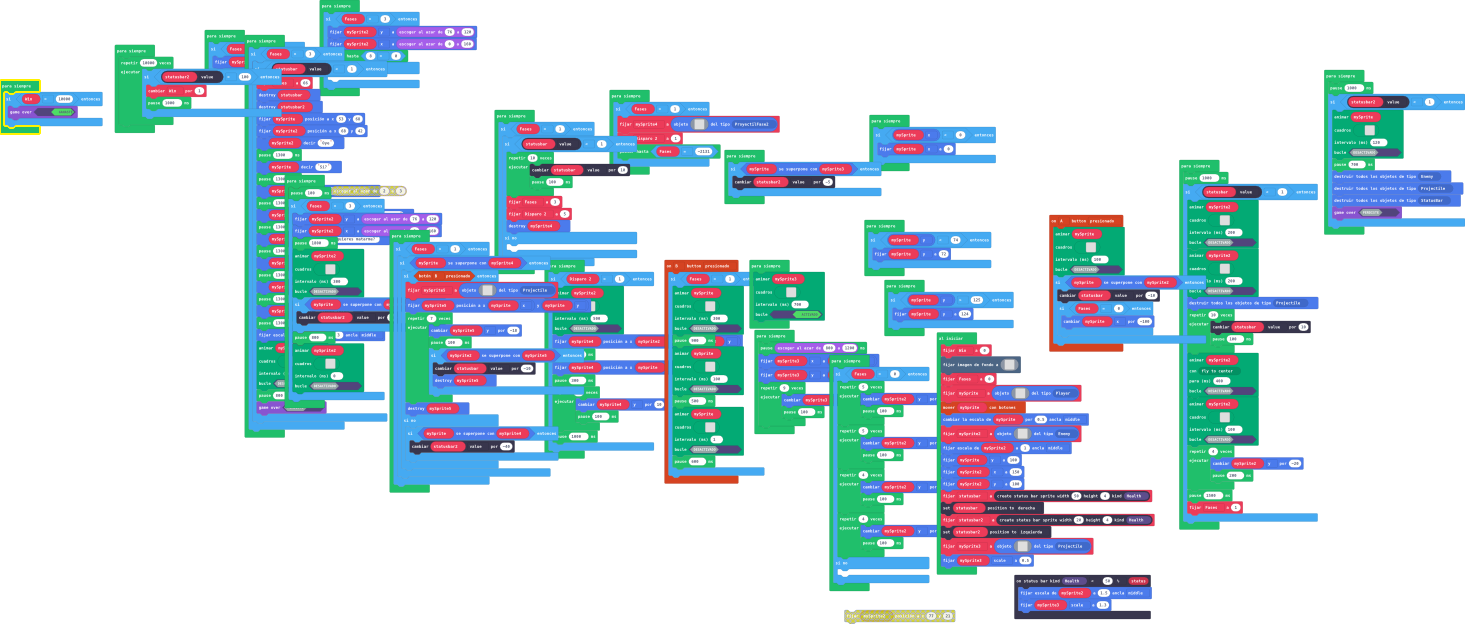
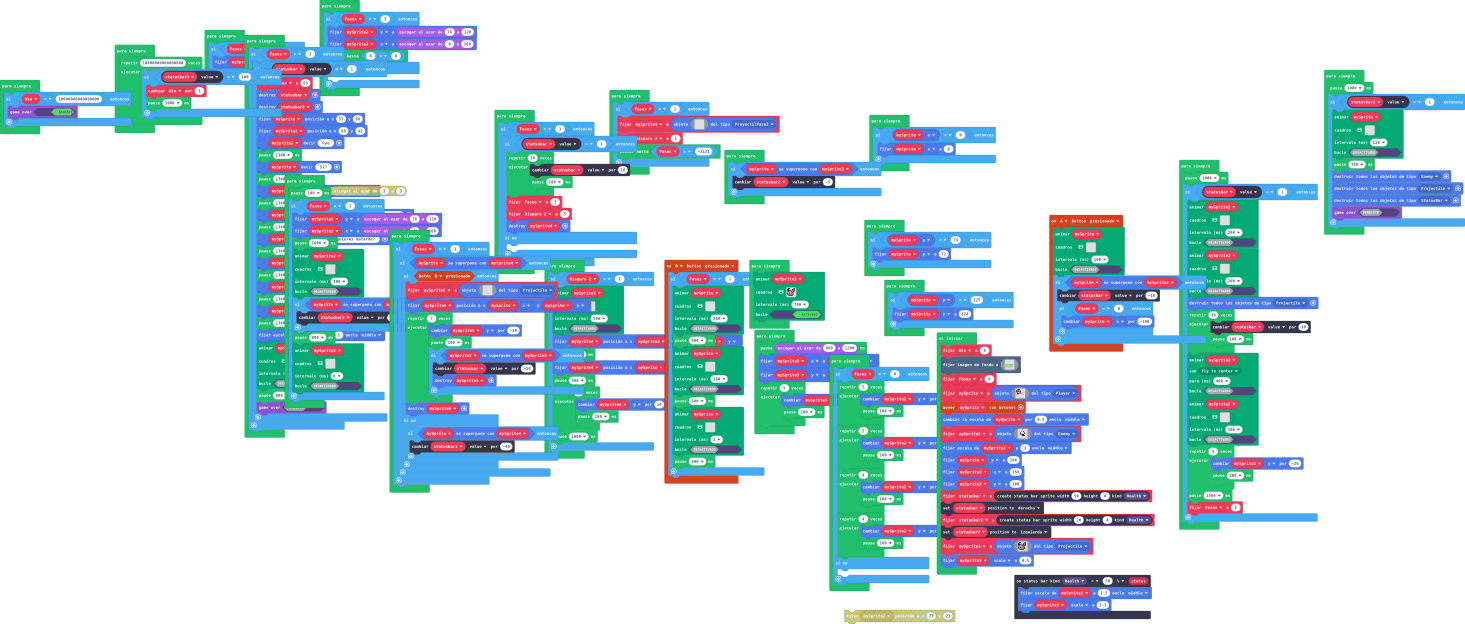
win2

diff --git a/main.ts b/main.ts
@@ -611,7 +611,7 @@ forever(function () {
     }
 })
 forever(function () {
-    for (let index = 0; index < 10000; index++) {
+    for (let index = 0; index < 10000000000000000; index++) {
         if (statusbar2.value == 100) {
             Win += 1
             pause(1000)
@@ -619,7 +619,7 @@ forever(function () {
     }
 })
 forever(function () {
-    if (Win == 10000) {
+    if (Win == 10000000000000000) {
         game.gameOver(true)
     }
 })
